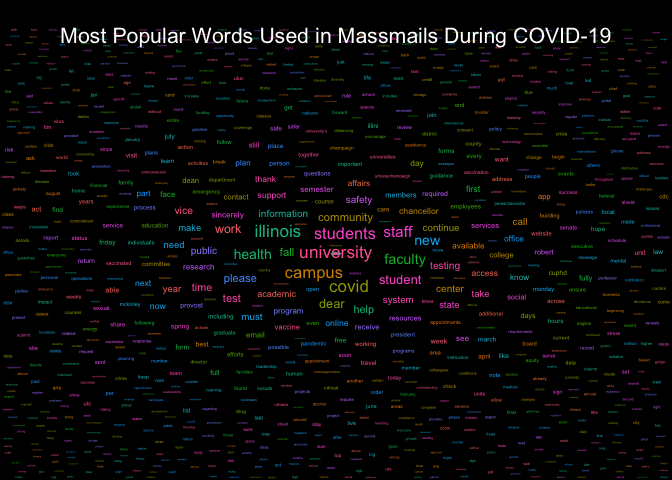
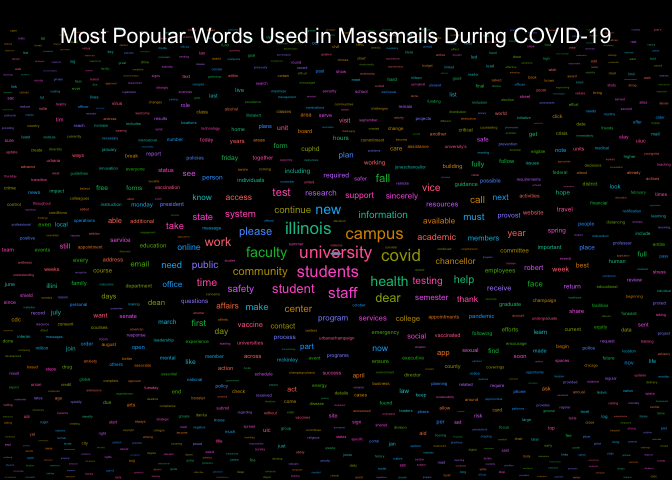
Re-build README.Rmd and Graphs

Changed region(s): [[0.0, 0.0625, 1.0, 1.0]]

diff --git a/README.md b/README.md
@@ -17,7 +17,7 @@ The archive may be viewed here:
 
 <https://massmail.illinois.edu/massmailArchive>
 
-Data has **796** observations and **7** variables:
+Data has **794** observations and **7** variables:
 
 - `datetime`: Date and time when the email was sent in the form of
   `YYYY-MM-DD HMS` with either CDT or CST.
@@ -210,15 +210,15 @@ head(most_popular_words, 10) %>%
 
 | word       | freq |
 |:-----------|-----:|
-| university | 2009 |
-| students   | 1721 |
-| campus     | 1542 |
-| illinois   | 1367 |
+| university | 2010 |
+| students   | 1724 |
+| campus     | 1545 |
+| illinois   | 1368 |
 | covid      | 1070 |
 | faculty    | 1009 |
-| community  |  953 |
+| community  |  955 |
 | health     |  943 |
-| student    |  926 |
+| student    |  927 |
 | staff      |  851 |
 
 #### Wordcloud
